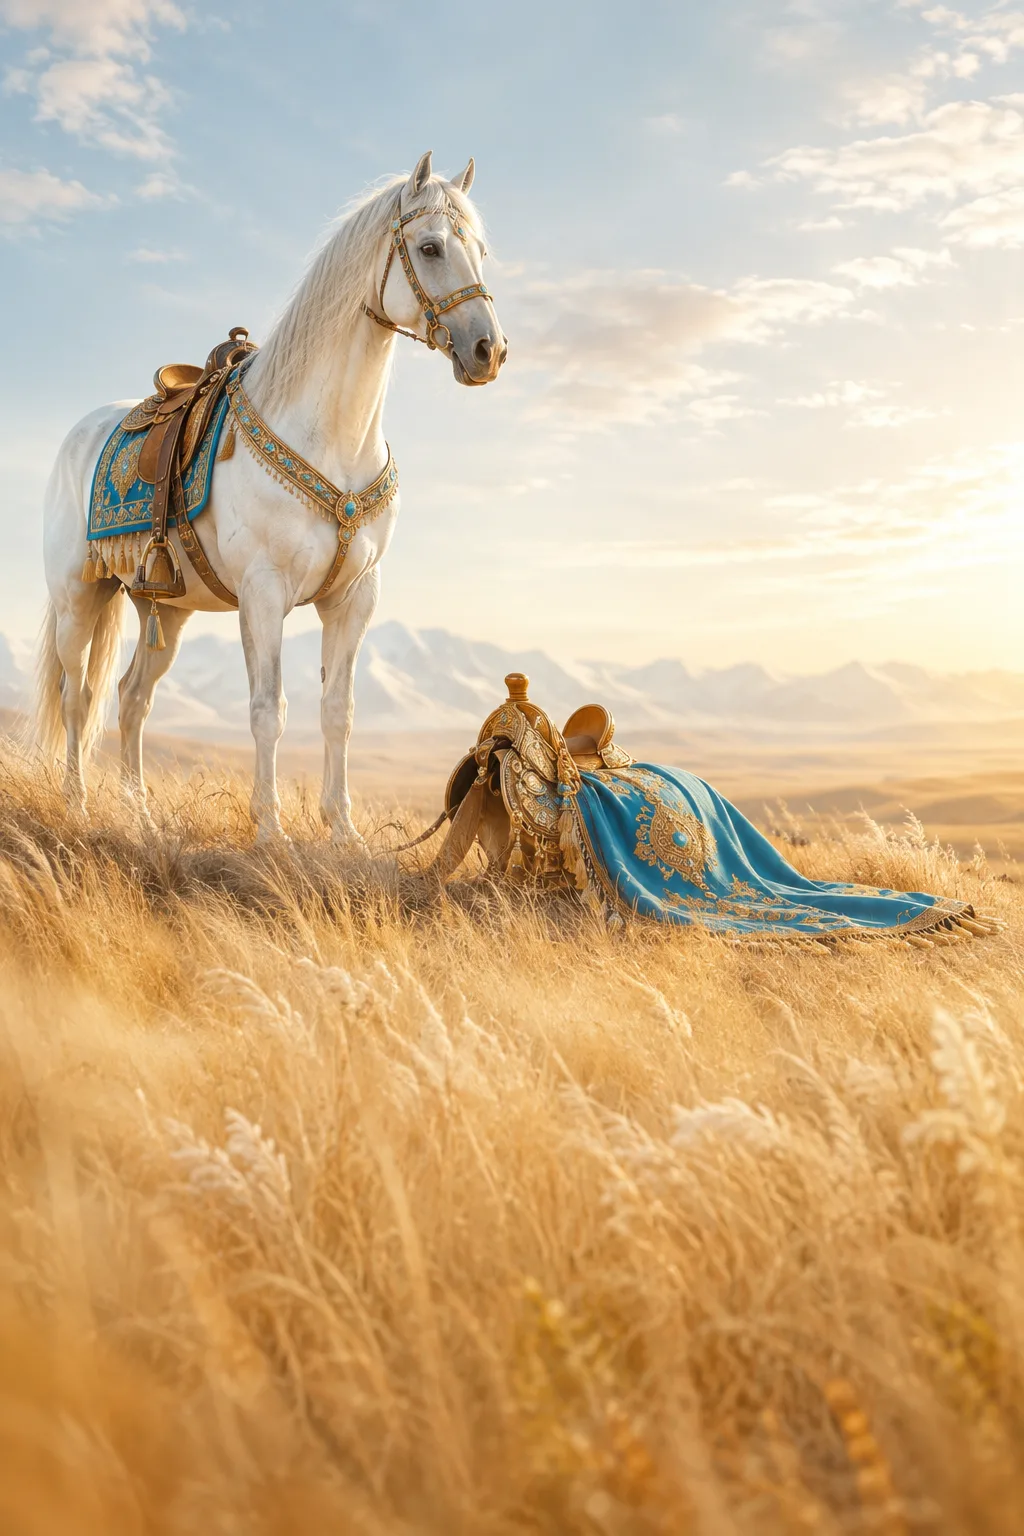
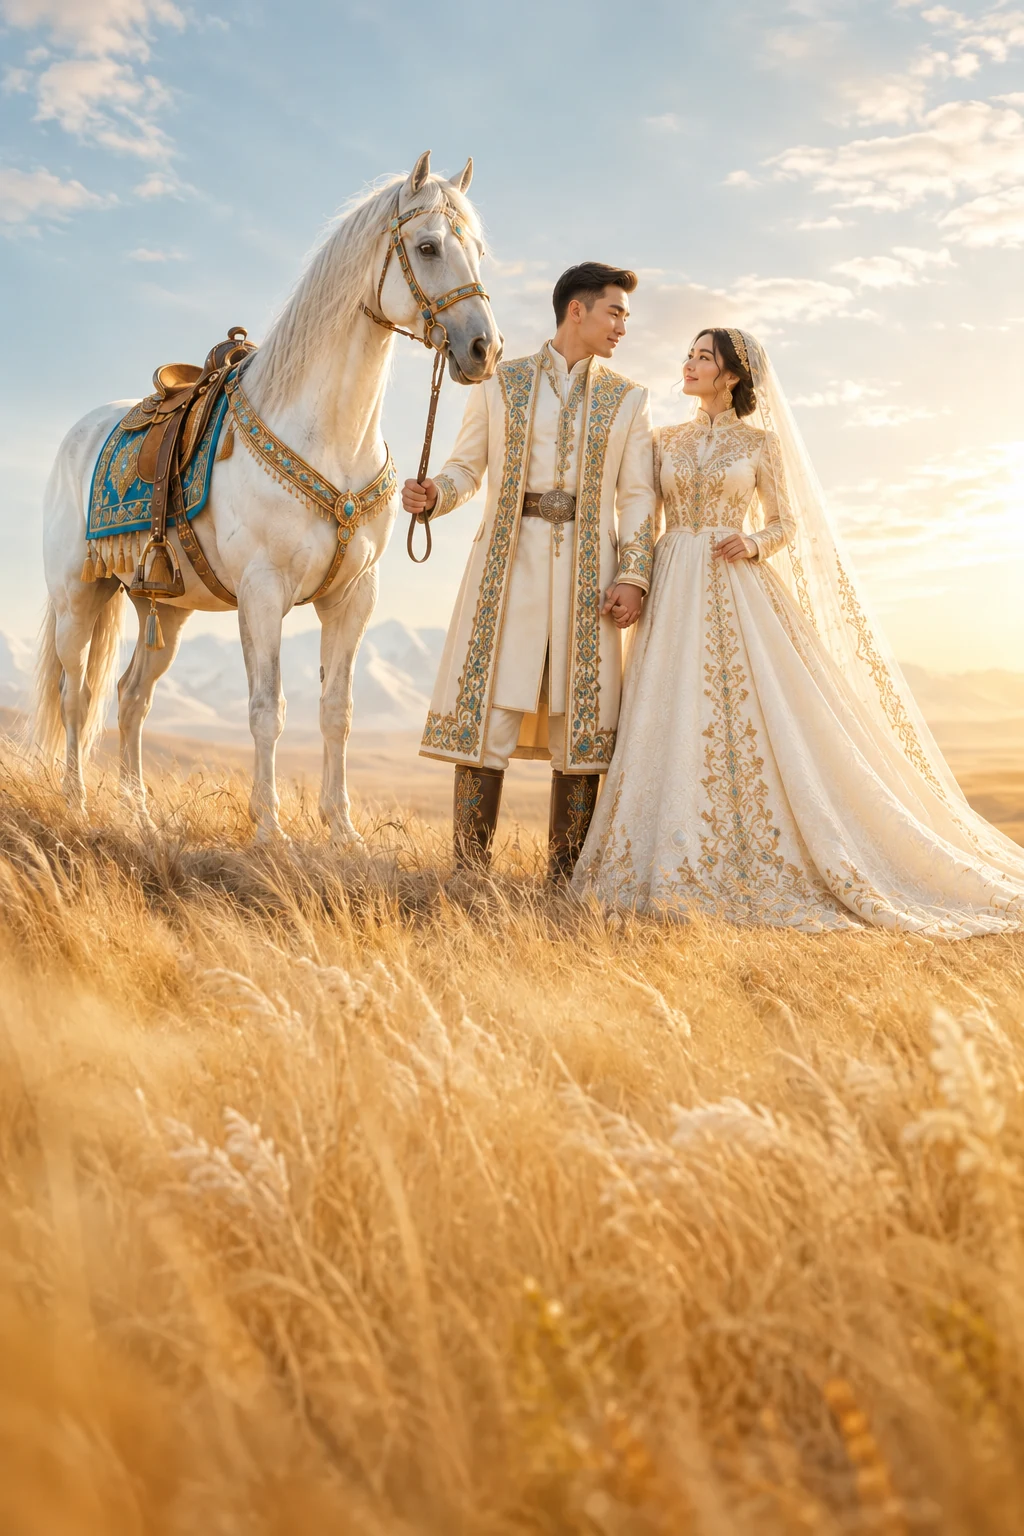
Improve wedding cover and Atyrau venue preview

Changed region(s): [[0.0, 0.0938, 1.0, 0.6562]]

diff --git a/public/motion.css b/public/motion.css
@@ -1171,7 +1171,7 @@
 /* Preserve the photo in the wedding album and use a dark readable caption area. */
 .invite-mobile.invite-template-mahabbat-hikayasy .invite-cover .invite-cover-shade{background:linear-gradient(180deg,rgba(8,27,28,.04) 0%,rgba(8,27,28,.12) 40%,rgba(8,27,28,.58) 55%,rgba(8,27,28,.88) 72%,rgba(8,27,28,.96) 100%)!important}
 .invite-mobile.invite-template-mahabbat-hikayasy .invite-cover-copy :is(.invite-name,.invite-name span,.invite-overline,.invite-cover-date){color:#fffaf1!important}
-.invite-mobile.invite-template-mahabbat-hikayasy .invite-cover-copy .story-chapter-label{color:#e9c7aa!important}
+.invite-mobile.invite-template-mahabbat-hikayasy .invite-cover .invite-cover-copy .story-chapter-label{align-self:center;margin:0 auto 10px!important;padding:6px 10px;background:rgba(10,32,32,.82);color:#fff9ee!important;font:700 11px/1.45 'Noto Sans',Manrope,Arial,sans-serif;letter-spacing:.14em;text-align:center;text-shadow:none!important}
 @media(max-width:430px){.invite-mobile[class*='invite-template-'] .invite-cover-copy{padding:24px 24px 130px!important}}
 .invite-mobile .invite-kazakh-mark{top:22px!important;right:22px!important;bottom:auto!important;left:auto!important}
 .invite-mobile.invite-event-wedding .invite-name-preview{font-size:clamp(31px,8vw,42px)!important;line-height:1.15}

diff --git a/resources/views/store/checkout.blade.php b/resources/views/store/checkout.blade.php
@@ -126,7 +126,7 @@
 </div></fieldset>
 <button class="button primary full" type="submit">{{ $t['submit'] }} →</button><p class="hint">{{ $t['submit_hint'] }}</p>
 </div>
-<aside class="panel summary-panel"><p class="eyebrow">{{ $t['choice'] }}</p><div class="design-preview invite-card-{{ $template->config_json['theme'] ?? 'sage' }} event-card-{{ $template->event_type }}">@if($template->preview_image)<img src="{{ $template->preview_image }}" alt="">@endif<span class="card-shade"></span><span class="card-theme-mark" aria-hidden="true"><i></i><i></i><b></b></span><strong class="card-design-name"><span>{{ $templateTitleFirstLine }}</span>@if($templateTitleSecondLine)<span>{{ $templateTitleSecondLine }}</span>@endif</strong></div>
+<aside class="panel summary-panel"><p class="eyebrow">{{ $t['choice'] }}</p><div class="design-preview invite-card-{{ $template->config_json['theme'] ?? 'sage' }} event-card-{{ $template->event_type }}">@if($template->preview_image)<img src="{{ $template->preview_image }}{{ $template->slug === 'altyn-nomad' ? '?v=2' : '' }}" alt="">@endif<span class="card-shade"></span><span class="card-theme-mark" aria-hidden="true"><i></i><i></i><b></b></span><strong class="card-design-name"><span>{{ $templateTitleFirstLine }}</span>@if($templateTitleSecondLine)<span>{{ $templateTitleSecondLine }}</span>@endif</strong></div>
 <div class="summary-row"><span>{{ $template->name }}</span><strong>{{ number_format($template->price, 0, ',', ' ') }} ₸</strong></div>
 @if($designSignature)<p class="design-signature">{{ $designSignature }}</p>@endif
 @if($offer)<div class="checkout-offer"><strong>{{ $kk ? 'Бағаға не кіреді' : 'Что входит в цену' }}</strong><ul>@foreach($offer as $feature)<li>{{ $feature }}</li>@endforeach</ul></div>@endif

diff --git a/app/Http/Controllers/StorefrontController.php b/app/Http/Controllers/StorefrontController.php
@@ -79,10 +79,19 @@ class StorefrontController extends Controller
             'invitation_text' => 'Сіздерді қуанышымыздың қадірлі қонағы болуға шақырамыз.',
             'event_date' => now()->addMonths(2)->format('Y-m-d'),
             'event_time' => '18:00',
-            'venue_name' => 'Салтанат сарайы',
-            'venue_address' => 'Алматы қаласы, Абай даңғылы, 50',
+            'venue_name' => 'Altyn Sarai',
+            'venue_address' => 'Атырау қаласы, Құрманғазы көшесі, 40',
             'hosts_name' => 'Қуаныш иелері',
         ], $template->config_json['content_kk'] ?? []);
+
+        // Older catalog records still contain the former Almaty placeholder.
+        if ($content['venue_address'] === 'Алматы қаласы, Абай даңғылы, 50') {
+            $content['venue_name'] = 'Altyn Sarai';
+            $content['venue_address'] = 'Атырау қаласы, Құрманғазы көшесі, 40';
+            $content['two_gis_url'] = 'https://2gis.kz/atyrau/firm/70000001034884476';
+        } elseif ($content['venue_name'] === 'Altyn Sarai' && $content['venue_address'] === 'Атырау қаласы, Құрманғазы көшесі, 40') {
+            $content['two_gis_url'] ??= 'https://2gis.kz/atyrau/firm/70000001034884476';
+        }
 
         return view($this->invitationView($template), [
             'template' => $template,

diff --git a/database/seeders/InvitationCatalogSeeder.php b/database/seeders/InvitationCatalogSeeder.php
@@ -14,8 +14,9 @@ class InvitationCatalogSeeder extends Seeder
             'event_time' => '18:00',
             'date_title' => 'Той салтанаты',
             'venue_title' => 'Мекенжайымыз',
-            'venue_name' => 'Салтанат сарайы',
-            'venue_address' => 'Алматы қаласы, Абай даңғылы, 50',
+            'venue_name' => 'Altyn Sarai',
+            'venue_address' => 'Атырау қаласы, Құрманғазы көшесі, 40',
+            'two_gis_url' => 'https://2gis.kz/atyrau/firm/70000001034884476',
             'countdown_title' => 'Салтанатқа дейін',
             'hosts_title' => 'Той иелері',
             'hosts_name' => 'Қуаныш иелері',
@@ -170,7 +171,11 @@ class InvitationCatalogSeeder extends Seeder
 
             $settings = $content['_settings'] ?? [];
             unset($content['_settings']);
-            $content = array_replace($base, $content);
+            $content = array_replace($base, $content, [
+                'venue_name' => $base['venue_name'],
+                'venue_address' => $base['venue_address'],
+                'two_gis_url' => $base['two_gis_url'],
+            ]);
             $sampleNames = $content['sample_names'] ?? match ($event) {
                 'qyz_uzatu' => 'Айдана',
                 'anniversary' => 'Айдын',

diff --git a/resources/views/store/catalog.blade.php b/resources/views/store/catalog.blade.php
@@ -77,7 +77,7 @@
 @endphp
 <article class="design-card design-card-{{ $theme }} design-template-{{ $template->slug }}" data-event-type="{{ $template->event_type }}" @if($category && $template->event_type && $template->event_type !== $category) hidden @endif>
 <a href="{{ route('store.preview', $template) }}" class="design-preview invite-card-{{ $theme }} theme-{{ $theme }} event-card-{{ $template->event_type }}" aria-label="{{ $copy['view'] }}: {{ $template->name }}">
-@if($template->preview_image)<img src="{{ $template->preview_image }}" alt="" loading="lazy">@endif
+@if($template->preview_image)<img src="{{ $template->preview_image }}{{ $template->slug === 'altyn-nomad' ? '?v=2' : '' }}" alt="" loading="lazy">@endif
 @if(data_get($template->config_json, 'format') === 'video')<span class="video-template-badge">{{ $kk ? 'БЕЙНЕ' : 'ВИДЕО' }}</span>@endif
 <span class="card-shade" aria-hidden="true"></span>
 <span class="card-theme-mark" aria-hidden="true"><i></i><i></i><b></b></span>

diff --git a/resources/views/admin/store.blade.php b/resources/views/admin/store.blade.php
@@ -51,8 +51,8 @@ $templateTextDefaults = [
     'date_title' => 'Той салтанаты',
     'gallery_title' => 'Біздің ерекше сәттеріміз',
     'venue_title' => 'Мекенжайымыз',
-    'venue_name' => 'Салтанат сарайы',
-    'venue_address' => 'Алматы қаласы, Абай даңғылы, 50',
+    'venue_name' => 'Altyn Sarai',
+    'venue_address' => 'Атырау қаласы, Құрманғазы көшесі, 40',
     'countdown_title' => 'Салтанатқа дейін',
     'hosts_title' => 'Той иелері',
     'hosts_name' => 'Қуаныш иелері',

diff --git a/resources/views/store/invitation.blade.php b/resources/views/store/invitation.blade.php
@@ -19,6 +19,9 @@
     if ($supportsPhotos && $photoGallery) {
         $image = $photoGallery[0];
     }
+    if ($template->slug === 'altyn-nomad' && $image && str_contains($image, '/invitation-assets/nomad-horse.webp')) {
+        $image .= '?v=2';
+    }
     $storyCountdownImage = $isPhotoStory ? ($photoGallery[1] ?? $photoGallery[0] ?? $image) : null;
     $storyFinalImage = $isPhotoStory ? ($photoGallery[2] ?? $photoGallery[0] ?? $image) : null;
     $eventLabels = [
